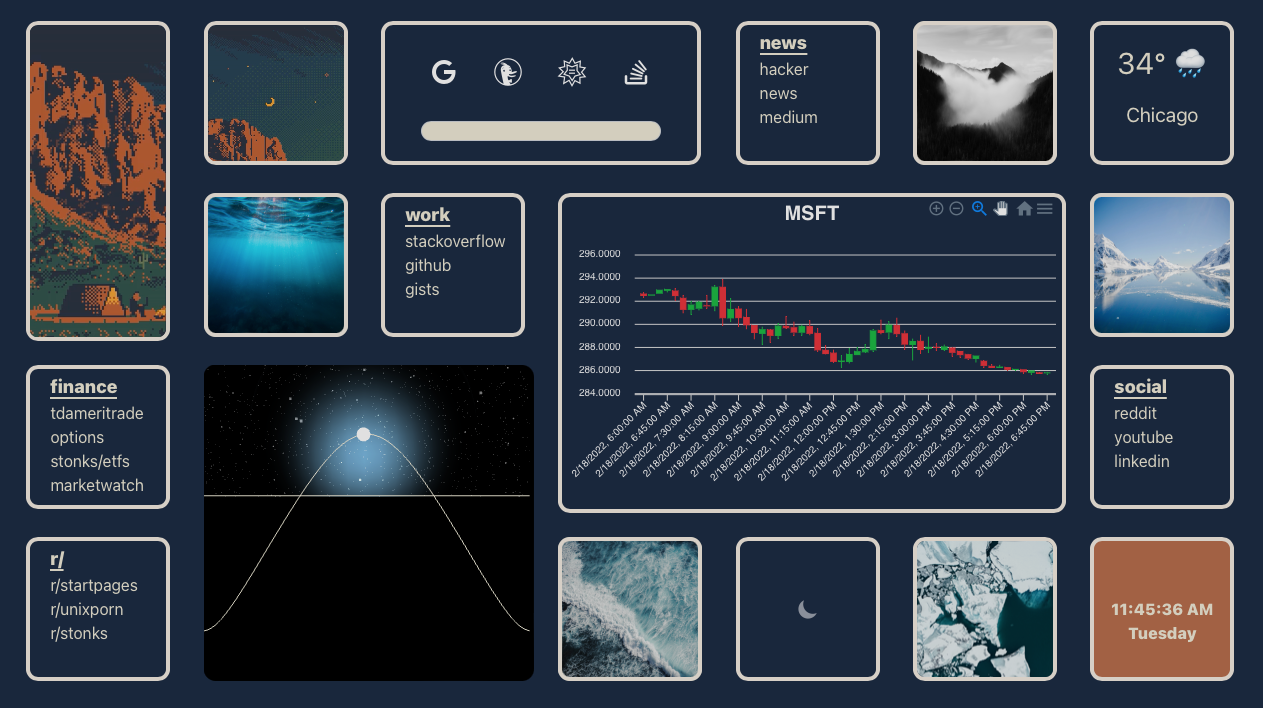
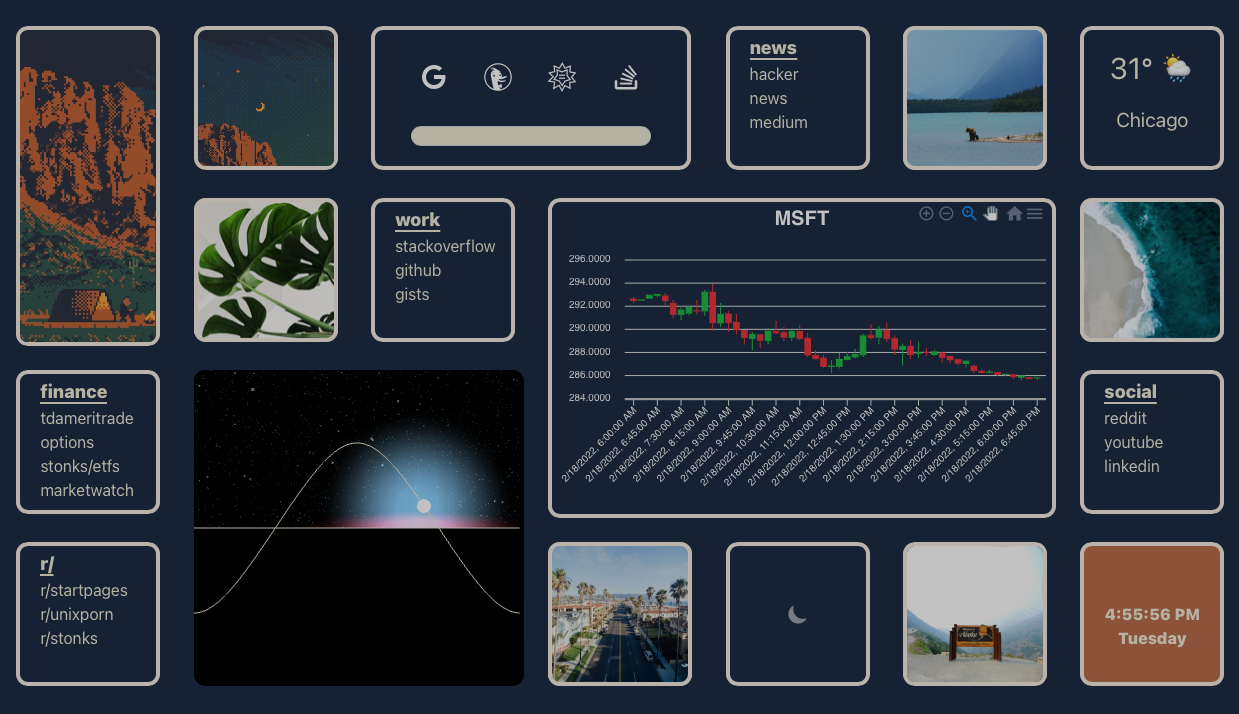
fix problems with solar chart

diff --git a/src/components/SolarGraphNew.js b/src/components/SolarGraphNew.js
@@ -19,13 +19,15 @@ var BACKGOUND = 0x000000
 class SolarGraphNew extends React.Component {
     constructor(props) {
         super(props);
+        this.updatePosition = this.updatePosition.bind(this);
 
         var now = new Date();
         
         // current state of the system
         this.state = {
-            daysInYear: Math.floor((now - new Date(now.getFullYear(), 0, 0)) / (1000 * 60 * 60 * 24)), // current day #
-            latitude: this.deg2rad(41.881832),                    
+            latitude: '',  
+            longitude: '',  
+            daysInYear: Math.floor((now - new Date(now.getFullYear(), 0, 0)) / (1000 * 60 * 60 * 24)), // current day #               
             lst: (((now.getHours() * 60) + now.getMinutes()) / 60),
             lstArray: this.linspace(0, 24, 10000),//1440),
             declinationAngle: 0,
@@ -37,7 +39,14 @@ class SolarGraphNew extends React.Component {
             sunSet: 0,
             xyValues: []
         }
-        
+
+        if (navigator.geolocation) { // get location
+            navigator.geolocation.getCurrentPosition((position) => {
+                this.getLocation(position.coords.latitude, position.coords.longitude);
+            });
+        }
+
+        this.interval = setInterval(this.updatePosition(), 5000);
 
         this.sceneRender = {
             camera: null,
@@ -92,12 +101,15 @@ class SolarGraphNew extends React.Component {
             }
         `
     }
-    
+
+    updatePosition() {
+        //this.calcCurrentSolarPosition()
+        //this.setSun()
+    }
     
     calcCurrentSolarPosition() {
-
-        this.state.declinationAngle = -0.4091 * Math.cos(360/365 * (this.state.daysInYear + 10))
-        this.state.hourAngle = 0.26 * (this.state.lst - 12)
+        this.state.declinationAngle = -23.44 * Math.cos(360/365 * (this.state.daysInYear + 10))
+        this.state.hourAngle = this.deg2rad(15 * (this.state.lst - 12)) // in degrees
 
         var LSTM = this.deg2rad(15) * this.deg2rad(105)
         var B = 360/365 * (this.state.daysInYear - 81)
@@ -106,37 +118,32 @@ class SolarGraphNew extends React.Component {
 
         //var sunRiseTime = 12 - 1/0.26 * Math.acos((-Math.sin(this.state.latitude) * Math.sin(this.state.declinationAngle))/(Math.cos(this.state.latitude) * Math.cos(this.state.declinationAngle)))
         //var sunSetTime = 12 + (1/0.26) * Math.acos((-1 * Math.sin(this.state.latitude) * Math.sin(this.state.declinationAngle))/(Math.cos(this.state.latitude) * Math.cos(this.state.declinationAngle)))
-        var sunRiseTime = 12 - (1/0.26) * Math.acos(-Math.tan(this.state.latitude) * Math.tan(this.state.declinationAngle)) - TC/60
-        var sunSetTime = 12 + (1/0.26) * Math.acos(-Math.tan(this.state.latitude) * Math.tan(this.state.declinationAngle)) - TC/60
+        var sunRiseTime = 12 - (1/23.44) * Math.acos(-Math.tan(this.state.latitude) * Math.tan(this.state.declinationAngle)) - TC/60
+        var sunSetTime = 12 + (1/23.44) * Math.acos(-Math.tan(this.state.latitude) * Math.tan(this.state.declinationAngle)) - TC/60
 
-        var hourAngleSunRise = 0.26 * (sunRiseTime - 12)
-        var hourAngleSunSet = 0.26 * (sunSetTime - 12)
+        var hourAngleSunRise = 23.44 * (sunRiseTime - 12)
+        var hourAngleSunSet = 23.44 * (sunSetTime - 12)
 
         this.state.sunRise = Math.asin(Math.sin(this.state.latitude) * Math.sin(this.state.declinationAngle) 
             + Math.cos(this.state.latitude) * Math.cos(this.state.declinationAngle) * Math.cos(hourAngleSunRise))
         this.state.sunSet = Math.asin(Math.sin(this.state.latitude) * Math.sin(this.state.declinationAngle) 
             + Math.cos(this.state.latitude) * Math.cos(this.state.declinationAngle) * Math.cos(hourAngleSunSet))
 
+        //this.state.solarElevationAngle = Math.asin(Math.sin(this.state.latitude) * Math.sin(this.state.declinationAngle) 
+        //    + Math.cos(this.state.latitude) * Math.cos(this.state.declinationAngle) * Math.cos(this.state.hourAngle))
         this.state.solarElevationAngle = Math.asin(Math.sin(this.state.latitude) * Math.sin(this.state.declinationAngle) 
             + Math.cos(this.state.latitude) * Math.cos(this.state.declinationAngle) * Math.cos(this.state.hourAngle))
     }
 
     calcSolarAngleArray() {        
-
-        this.state.declinationAngle = -0.4091 * Math.cos(360/365 * (this.state.daysInYear + 10))
+        this.state.declinationAngle = -23.44 * Math.cos(360/365 * (this.state.daysInYear + 10))
         for (var i = 0; i < this.state.lstArray.length; i++) {
-            this.state.hourAngleArray.push(0.26 * (this.state.lstArray[i] - 12))
+            this.state.hourAngleArray.push(this.deg2rad(15 * (this.state.lstArray[i] - 12)))
         }
         for (var j = 0; j < this.state.lstArray.length; j++) {
             this.state.solarElevationAngleArray.push(Math.asin(Math.sin(this.state.latitude) * Math.sin(this.state.declinationAngle) 
                 + Math.cos(this.state.latitude) * Math.cos(this.state.declinationAngle) * Math.cos(this.state.hourAngleArray[j])))
         }
-    }
-    
-    getLocation() {
-        navigator.geolocation.getCurrentPosition(position => {
-            //const { this.state.latitude, this.longitude } = position.coords
-          });
     }
 
     linspace(start, stop, n) {
@@ -146,6 +153,11 @@ class SolarGraphNew extends React.Component {
           arr.push(start + (step * i));
         }
         return arr;
+    }
+
+    getLocation(latitude, longitude) {
+        this.state.latitude = this.deg2rad(latitude)
+        this.state.longitude = this.deg2rad(longitude)
     }
 
     deg2rad = deg => (deg * Math.PI) / 180.0;
@@ -162,7 +174,7 @@ class SolarGraphNew extends React.Component {
         })
         this.sceneRender.renderer.setPixelRatio(window.devicePixelRatio);
         this.sceneRender.renderer.setSize(326, 316);
-        this.sceneRender.camera.position.set(12, -2, 28); // [x: solar noon y: None z: camera zoom]
+        this.sceneRender.camera.position.set(12, 0, 28); // [x: solar noon y: None z: camera zoom]
 
         const pointLight = new THREE.PointLight(0xffffff);
         pointLight.position.set(5, 5, 5);
@@ -232,9 +244,9 @@ class SolarGraphNew extends React.Component {
         }
 
         const starGeometry = new THREE.BufferGeometry();
-        starGeometry.setAttribute( 'position', new THREE.Float32BufferAttribute(starVertices, 3 ));
+        starGeometry.setAttribute( 'position', new THREE.Float32BufferAttribute(starVertices, 4 ));
         const starMaterial = new THREE.PointsMaterial( { color: 0x888888 } );
-        const starPoints = new THREE.Points(starGeometry, starMaterial );
+        const starPoints = new THREE.Points(starGeometry, starMaterial);
         this.sceneRender.scene.add(starPoints); 
     }
 
@@ -244,9 +256,11 @@ class SolarGraphNew extends React.Component {
         var amplitudeScale = 0.15 // need to adjust the amplitude of solarElevationAngleArray (can also exclude this and change z-axis below)
         var radius = 1
         var sunScale = 0.5
+        var sunYPosition = this.rad2deg(this.state.solarElevationAngle * amplitudeScale)
+        var sunXPosition = this.state.lst
 
         // set sun fill
-        if (this.rad2deg(this.state.solarElevationAngle * amplitudeScale) < 0) {
+        if (sunYPosition < 0) {
             var sunGeometry = new THREE.TorusGeometry(radius, 0.1, 16, 100)
         }
         else {
@@ -261,15 +275,15 @@ class SolarGraphNew extends React.Component {
                 fragmentShader: this.frag,
                 uniforms: {
                     sunPosition: {
-                        value: [this.state.lst, this.rad2deg(this.state.solarElevationAngle * amplitudeScale)]
+                        value: [sunXPosition, sunYPosition]
                     },
                 }
             })
         )
 
-        var solarTime = this.linspace(0, this.state.lst, 100)
+        var solarTime = this.linspace(0, sunXPosition, 100)
         var solarAngle = this.linspace(this.state.solarElevationAngleArray[0], this.state.solarElevationAngle , 100)
-        sun.position.set(this.state.lst, this.rad2deg(this.state.solarElevationAngle * amplitudeScale), 0);
+        sun.position.set(sunXPosition, sunYPosition, );
         sun.scale.set(radius * sunScale, radius * sunScale, radius * sunScale)
         this.sceneRender.scene.add(sun);
         //for (var i = 0; i < solarTime.length; i ++) {
@@ -288,14 +302,14 @@ class SolarGraphNew extends React.Component {
                 side: THREE.BackSide,
             })
         )
-        atmosphere.position.set(this.state.lst, this.rad2deg(this.state.solarElevationAngle * amplitudeScale), 0);
-        atmosphere.scale.set(radius * atmosphereScale, radius * atmosphereScale, -radius * atmosphereScale)
+        atmosphere.position.set(sunXPosition, sunYPosition, -3);
+        atmosphere.scale.set(radius * atmosphereScale, radius * atmosphereScale, 0)
         this.sceneRender.scene.add(atmosphere);
 
-        console.log(this.rad2deg(this.state.solarElevationAngle * amplitudeScale))
+
         //horison
-        if (this.rad2deg(this.state.solarElevationAngle * amplitudeScale) > - 1.5 & this.rad2deg(this.state.solarElevationAngle * amplitudeScale) < 1.5) {
-            if (this.state.lst < 12) {
+        if (sunYPosition > - 1.5 & sunYPosition < 2.5) {
+            if (sunXPosition < 12) {
                 var horizonColor = new THREE.Vector4(0.953, 0.906, 0.427, 1.0);
             }
             else {
@@ -308,19 +322,19 @@ class SolarGraphNew extends React.Component {
                     vertexShader: this.vert3,
                     fragmentShader: this.frag3,
                     blending: THREE.AdditiveBlending,
-                    side: THREE.BackSide,
+                    //side: THREE.BackSide,
                     uniforms: {horizonColor: {value: horizonColor}}
                 })
             )
-            horizon.position.set(this.state.lst, 0, -5);
-            horizon.scale.set(7.5, 1.5, 0)
+            horizon.position.set(sunXPosition, 0, -3);
+            horizon.scale.set(10, 1.5, 0)
             this.sceneRender.scene.add(horizon);
         }
     }
 
     componentDidMount() {
-
-        this.calcCurrentSolarPosition() // get sun position
+        
+        //this.calcCurrentSolarPosition() // get sun position
         this.calcSolarAngleArray()      // get sun trajectory 
 
         // Setup
@@ -328,10 +342,12 @@ class SolarGraphNew extends React.Component {
 
         this.setSolarElevationPlot()
         this.setHorizon()
-        if (this.rad2deg(this.state.solarElevationAngle) != 0) {
+        //if (this.rad2deg(this.state.solarElevationAngle) != 9000) {
             this.setStars()
-        }
+        //}
         this.setSun()
+
+        clearInterval(this.interval)
 
         // render
         this.sceneRender.renderer.render(this.sceneRender.scene, this.sceneRender.camera)   
